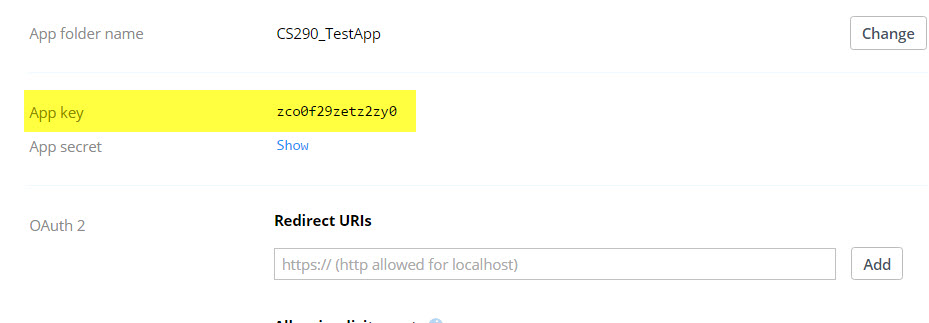
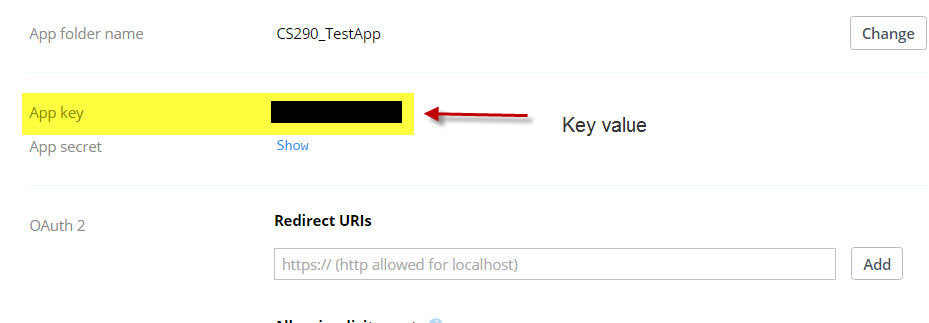
2210 update
Update Key image and style

Changed region(s): [[0.0312, 0.2786, 0.718, 0.4334]]

diff --git a/style.css b/style.css
@@ -57,8 +57,18 @@ div {
     width: 450px;
     height: 250px;
 }
+
+.codeView{
+    align-content: center;
+    text-align: center; 
+    width: 75%;
+    padding-left: 12%;
+    padding-right: 12%;
+}
+
 footer{
-    font-size: xx-small;   
+    font-size: small;
+    font-style: oblique;
 }
 
 table{
